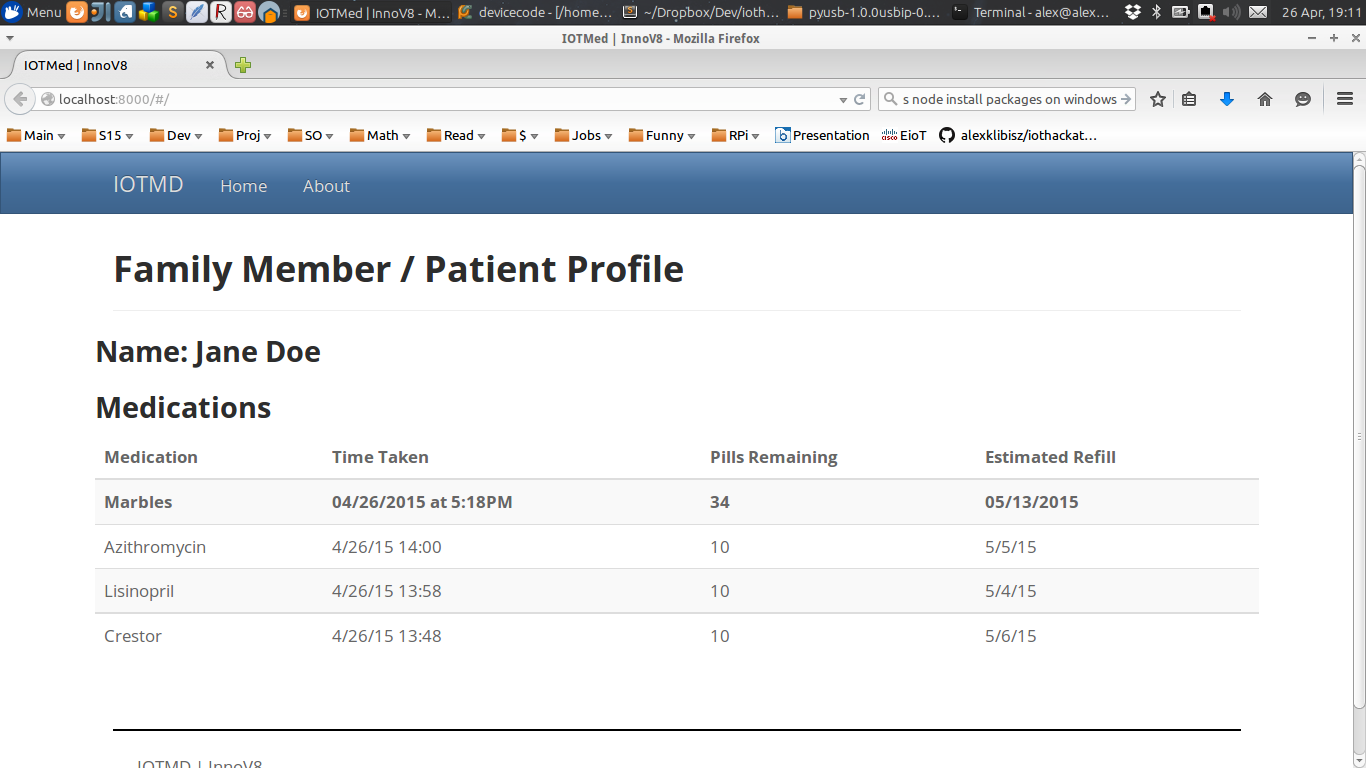
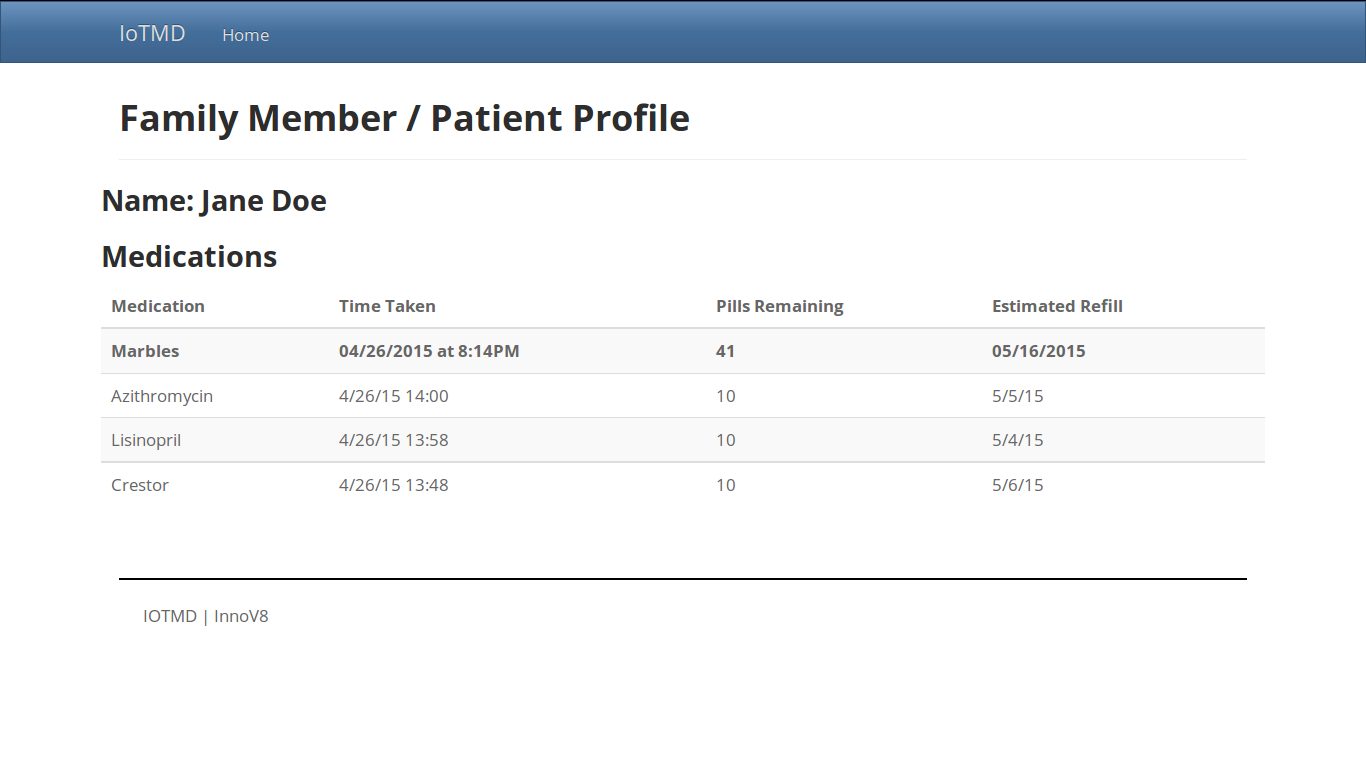
new screenshot

diff --git a/webinterface/components/shared/partials/NavPartial.html b/webinterface/components/shared/partials/NavPartial.html
@@ -11,8 +11,7 @@
         </div>
         <div class="navbar-collapse collapse" id="navbar-main">
             <ul class="nav navbar-nav">
-                <li><a href="#">Home</a></li>
-                <li><a href="#">About</a></li>
+                <li><a href="#/">Home</a></li>
             </ul>
         </div>
     </div>
